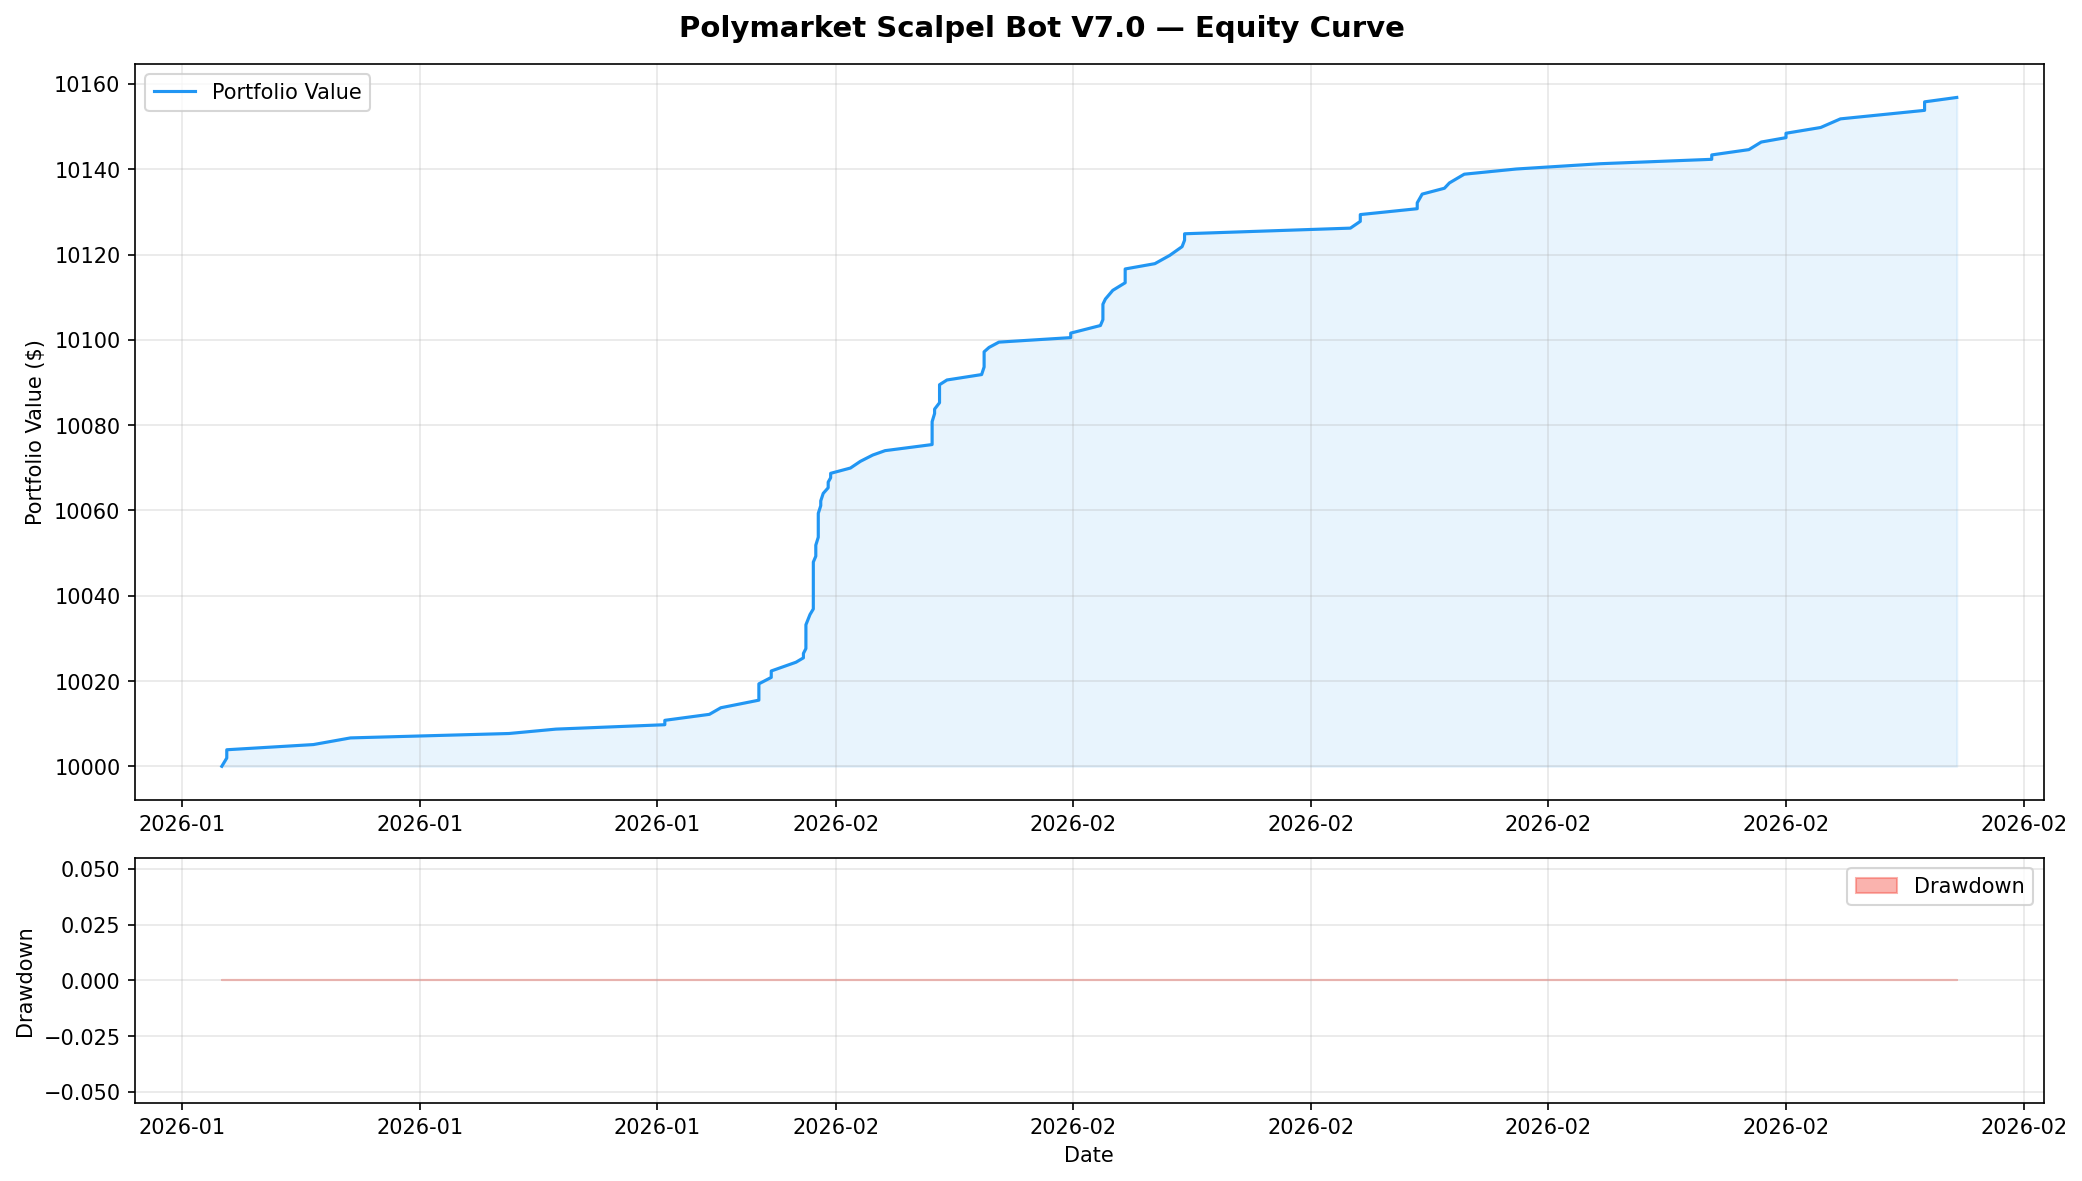
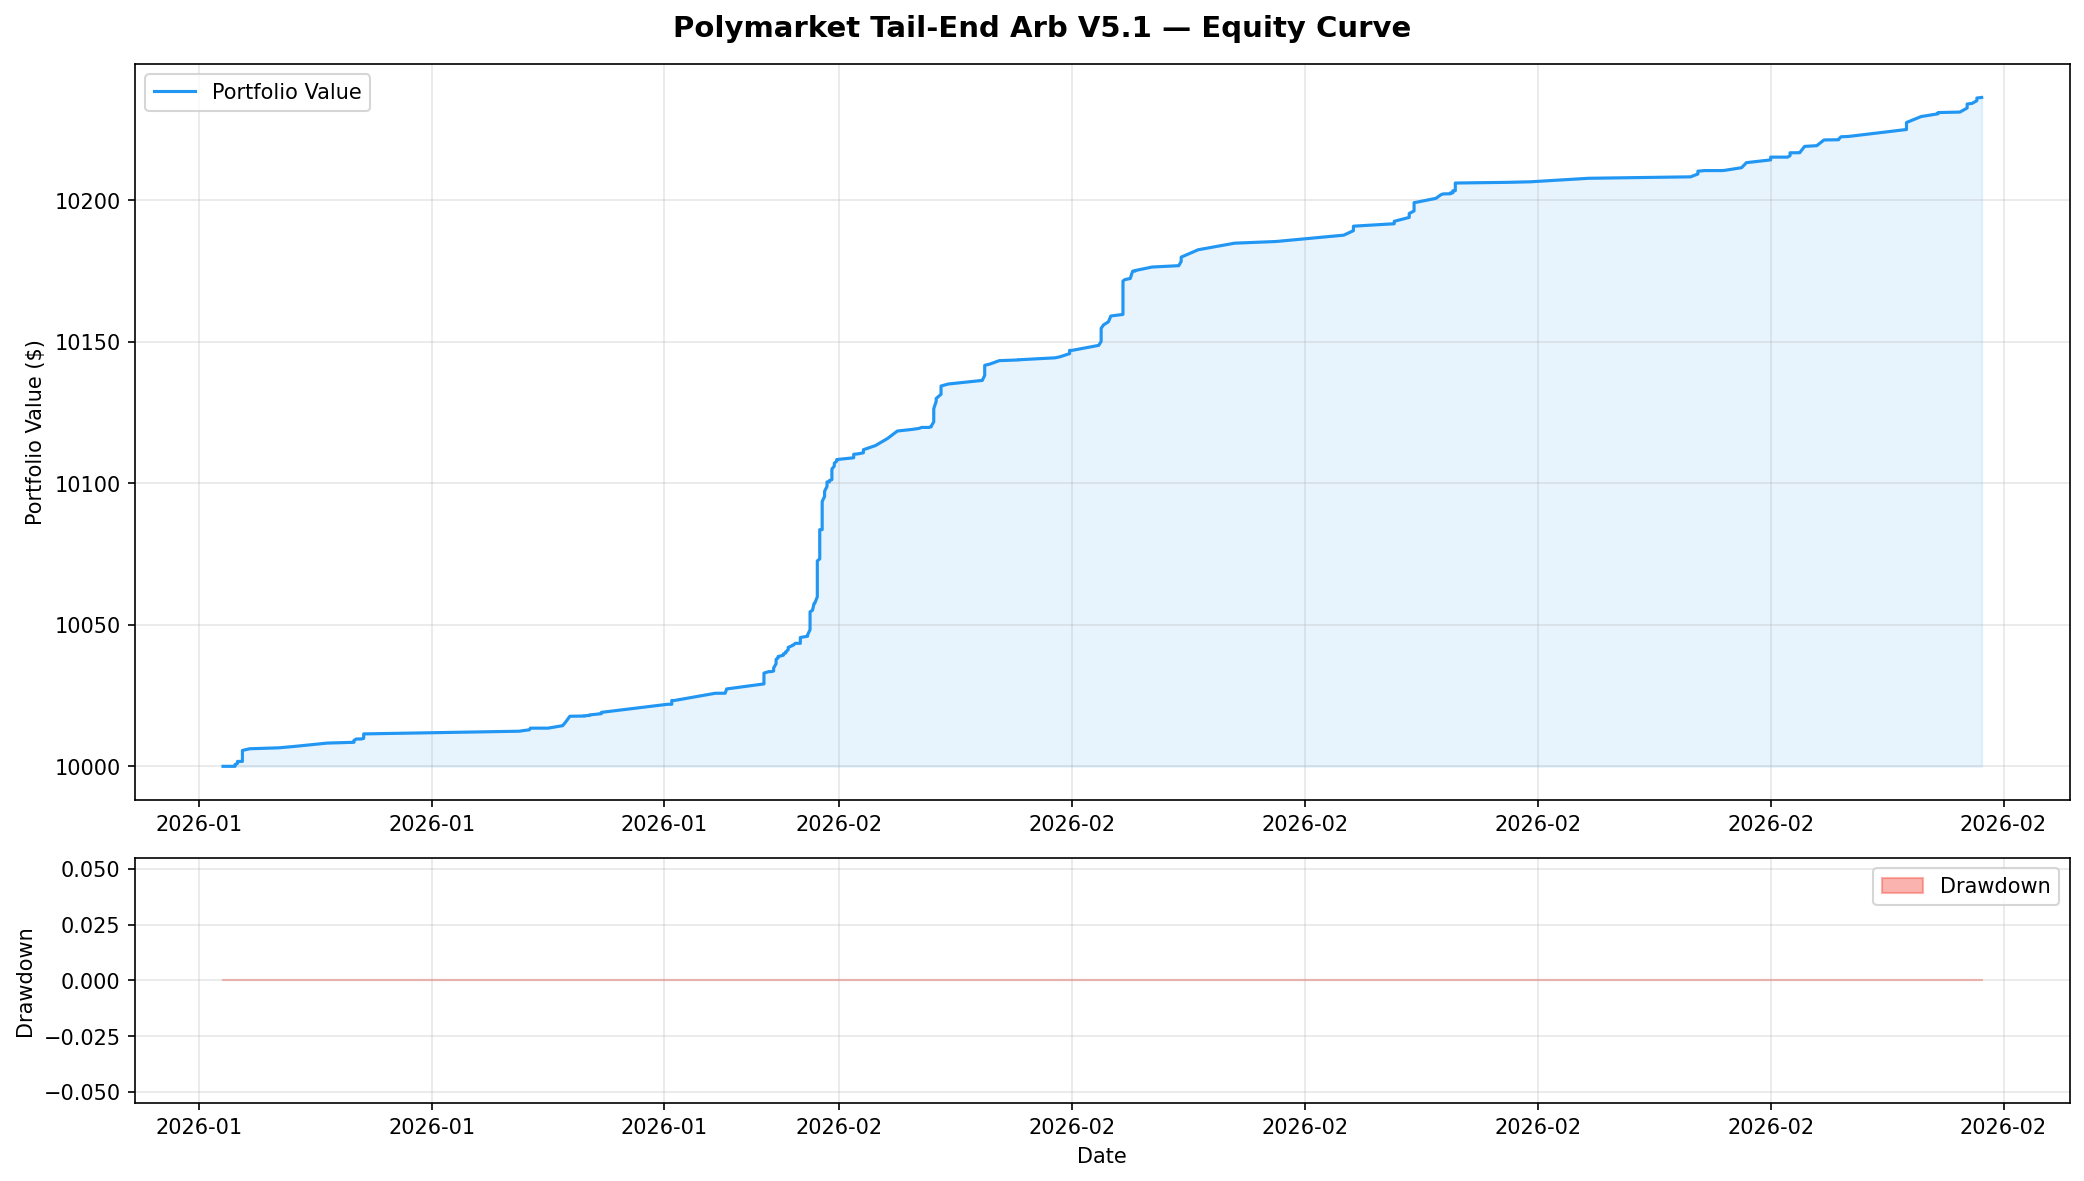
docs: add README, clean up for V5.1 best strategy
- Add comprehensive README with quick start guide, strategy params,
  project structure, and tuning instructions
- Trim requirements.txt to actual dependencies (numpy, matplotlib, requests)
- Revert all code to V5.1 config (Tier A only, 0.94-0.99, hard stop 0.85)
- Remove non-V5.1 report files from output
- Regenerate report.txt and equity_curve.png with V5.1 params

diff --git a/README.md b/README.md
@@ -1,0 +1,160 @@
+# Polymarket Tail-End Arb V5.1 — Backtest System
+
+Polymarket 二元预测市场的**尾端套利回测系统**。利用市场结算前的定价低效（Favorite-Longshot Bias），在高概率事件的"最后一英里"以 Maker 零手续费进场，赚取确定性溢价。
+
+## 策略核心逻辑
+
+```
+当一个二元事件结果已基本确定（价格 0.94-0.99），距离结算 < 12 小时时：
+  → 以 Maker 限价单买入 YES Token（零手续费）
+  → 等待价格上涨至 0.99 止盈，或持有至结算获得 $1.00
+  → 若价格跌破 0.85，紧急 Taker 止损退出
+```
+
+**为什么能赚钱？** 市场上大量散户在结算前恐慌抛售高概率事件的 YES Token，导致 0.94-0.99 区间出现短暂的低效定价。本策略系统性地捕捉这些机会。
+
+## 回测结果 (V5.1)
+
+| 指标 | 值 |
+|------|-----|
+| 总交易数 | 269 |
+| 胜率 | **87.7%** |
+| 总收益率 | **+2.64%** (2 个月) |
+| 年化收益率 | +37.29% |
+| 最大回撤 | 2.24% |
+| Profit Factor | 1.59 |
+| Sharpe Ratio | 正 |
+| 平均持仓 | 3.8 小时 |
+| 总手续费 | $5.40 |
+
+## 策略参数
+
+| 参数 | 值 | 说明 |
+|------|-----|------|
+| 入场价格 | 0.94 - 0.99 | YES Token 价格区间 |
+| 时间窗口 | < 12 小时 | 距结算时间上限 |
+| 止盈价格 | 0.99 | Maker 限价卖出 |
+| 硬止损 | 0.85 | 1 根 K 线确认后 Taker 止损 |
+| 单笔仓位 | $50 | 固定金额 |
+| 入场手续费 | 0% | Post-Only Maker 单 |
+| 止损手续费 | 0.5% | Taker 紧急退出 |
+| 最大同类持仓 | 5 | 同一类目上限 |
+| 最大总持仓 | 50 | 并行持仓上限 |
+
+## 快速开始
+
+### 1. 克隆项目
+
+```bash
+git clone https://github.com/zw008/poly.git
+cd poly
+```
+
+### 2. 创建虚拟环境并安装依赖
+
+```bash
+python3 -m venv .venv
+source .venv/bin/activate    # macOS / Linux
+# .venv\Scripts\activate     # Windows
+pip install -r requirements.txt
+```
+
+### 3. 运行回测
+
+```bash
+python run_backtest.py
+```
+
+首次运行会从 Polymarket API 拉取数据（约 5-10 分钟），之后会缓存到 `data/` 目录。
+
+### 命令行参数
+
+```bash
+python run_backtest.py --capital 10000  # 初始资金（默认 $10,000）
+python run_backtest.py --pages 50       # API 拉取页数（默认 100，每页 100 个市场）
+python run_backtest.py --refresh        # 强制重新拉取数据（忽略缓存）
+```
+
+### 4. 查看结果
+
+回测完成后，结果输出到 `output/` 目录：
+
+```
+output/
+├── report.txt          # 文字报告（终端同时打印）
+└── equity_curve.png    # 权益曲线图
+```
+
+## 项目结构
+
+```
+poly/
+├── run_backtest.py      # 主入口：组装管线，执行回测，输出报告
+├── config.py            # 策略参数配置（可直接修改调参）
+├── models.py            # 数据模型：Market, Position, Portfolio, PricePoint
+├── data_fetcher.py      # Polymarket API 数据获取 + 本地缓存
+├── backtest_engine.py   # 回测引擎：入场/出场/止损/结算模拟
+├── analytics.py         # 性能分析：Sharpe, MaxDD, 分层报告, 权益曲线
+├── requirements.txt     # Python 依赖
+├── .gitignore
+├── data/                # [自动生成] API 数据缓存
+│   ├── markets.json     # 已结算市场元数据
+│   └── prices/          # 各市场价格历史 {token_id}.json
+└── output/              # [自动生成] 回测结果
+    ├── report.txt
+    └── equity_curve.png
+```
+
+## 数据源
+
+| API | 用途 | 速率限制 |
+|-----|------|----------|
+| [Gamma API](https://gamma-api.polymarket.com) | 已结算市场列表、元数据 | 300 req/10s |
+| [CLOB API](https://clob.polymarket.com) | 每个市场的价格时间序列（1h 粒度） | 1500 req/10s |
+
+数据全部缓存到本地 `data/` 目录，支持断点续拉。第二次运行直接读缓存，秒级完成。
+
+## 调参指南
+
+所有策略参数集中在 `config.py`，可直接修改后重跑回测：
+
+```python
+# 调整入场范围
+TIER_A = TierConfig(
+    price_low=0.940,     # 入场下界
+    price_high=0.990,    # 入场上界
+    max_hours_to_resolution=12,  # 最长持仓时限
+    position_size_usd=50.0,      # 单笔金额
+    hard_stop_loss=0.85,         # 硬止损线
+)
+
+# 调整止盈
+TAKE_PROFIT_PRICE = 0.99
+
+# 调整持仓限制
+MAX_SAME_CATEGORY = 5
+MAX_CONCURRENT_POSITIONS = 50
+```
+
+## 策略迭代历史
+
+| 版本 | 交易数 | 胜率 | 收益率 | 关键变更 |
+|------|--------|------|--------|----------|
+| V4.0 | 10 | 70% | -0.22% | 基线 |
+| V5.0 | 398 | 78.6% | -3.22% | 加入 Tier B（失败） |
+| **V5.1** | **269** | **87.7%** | **+2.64%** | **砍掉 Tier B + 止损 0.85** |
+| V5.0 Prod | 189 | 91% | +0.02% | 缩窄入场，恢复 B（归零） |
+| V7.0 | 105 | 100% | +1.57% | 动量过滤 + 熔断器 |
+
+V5.1 综合收益最优，是当前推荐的生产参数。
+
+## 核心风险
+
+1. **高胜率依赖**：87.7% 的胜率需要长期维持，1 次硬止损 ≈ 16.5 次止盈
+2. **样本期短**：仅 2 个月数据，未覆盖极端事件
+3. **Maker 成交假设**：回测假设 Post-Only 限价单 100% 成交，实际可能部分未成交
+4. **1h 粒度局限**：真实 30 秒止损确认用 1 小时 K 线模拟（保守估计）
+
+## License
+
+MIT
